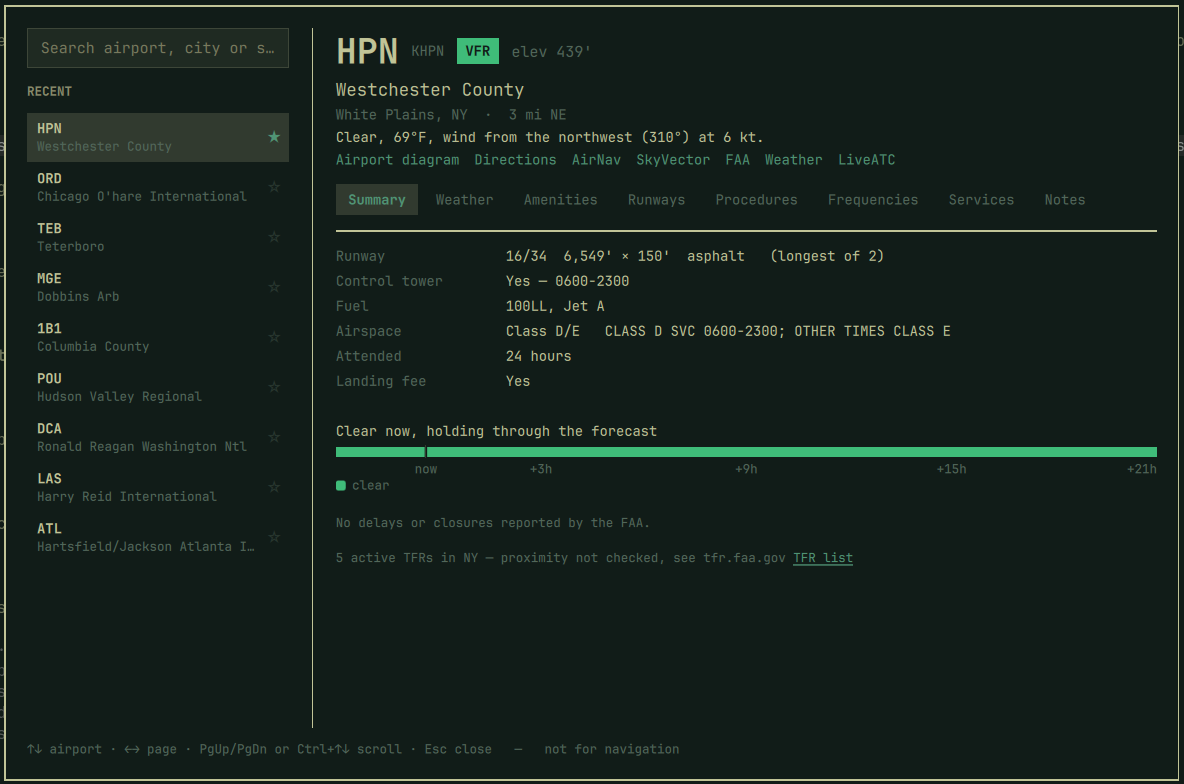
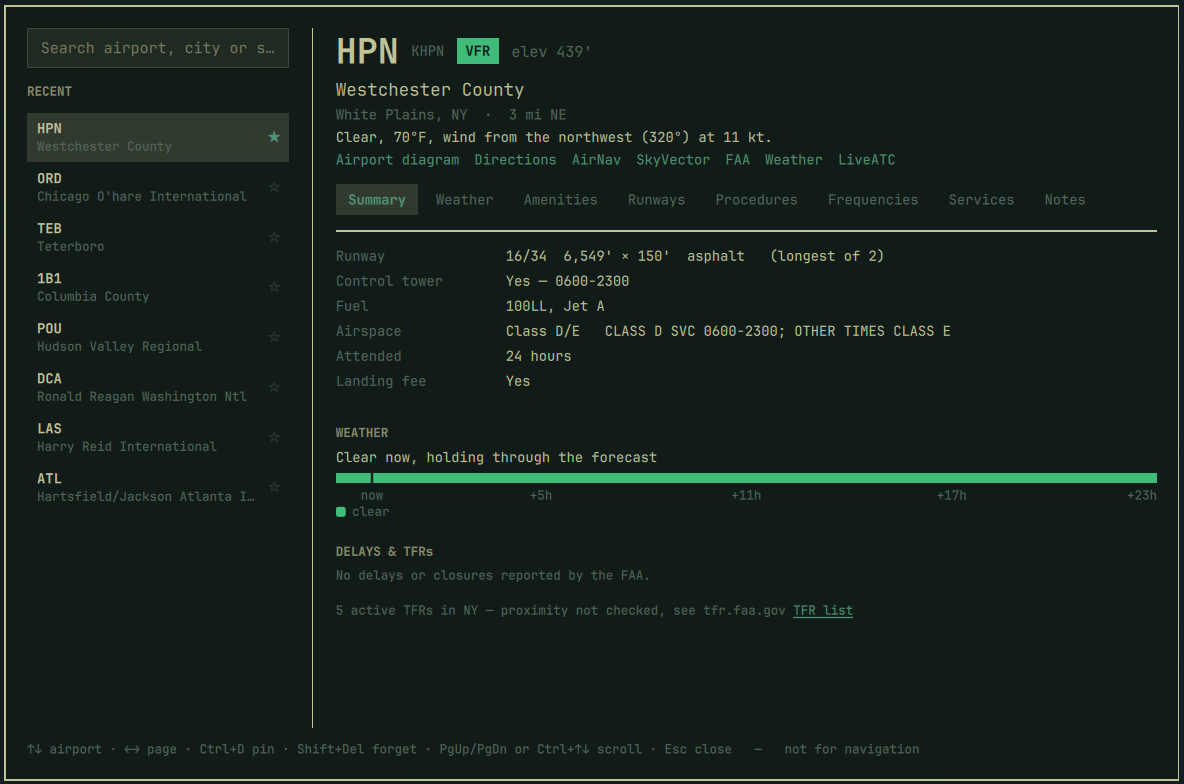
Give the Summary section headers
A coloured bar appeared under a table of runway and fuel facts with nothing
saying what the colours were about. The Summary was the one page carrying no
section headers at all, which was fine while it was a single table and stopped
being fine when the forecast band landed under it.

WEATHER over the forecast block. Not FORECAST: the block opens with "Clear
now", so it is conditions and outlook together, and matching the tab name
points at where the rest of it lives.

DELAYS & TFRs over the two lines below, because they are not weather and a
single header above would have annexed them.

Claude-Session: https://claude.ai/code/session_016PRcajPYBMmvqdanVCNj6V

diff --git a/Panel.qml b/Panel.qml
@@ -1175,6 +1175,16 @@ Item {
 
                   Item { width: 1; height: Style.space(4) }
 
+                  // The Summary is the one page with no section headers, which
+                  // was fine when it was a single table. It is not fine now
+                  // that a coloured bar sits under it with nothing saying what
+                  // the colours are about.
+                  PanelSectionHeader {
+                    visible: Model.outlookSegments(root.outlook).length > 0
+                    text: "WEATHER"
+                    foreground: Color.menu.text
+                  }
+
                   // ---- forecast at a glance ----
                   // The same band as the Weather page, captioned so it reads
                   // without a licence: what the sky is doing now, when that
@@ -1307,6 +1317,16 @@ Item {
                     width: 1
                     height: Style.space(6)
                     visible: Model.outlookSegments(root.outlook).length > 0
+                  }
+
+                  // Delays and TFRs are not weather. Without a header of their
+                  // own they read as the tail of the block above.
+                  PanelSectionHeader {
+                    visible: !!(root.status && root.status.available)
+                      || !!Model.tfrLine(root.tfr, root.header ? root.header.us : true)
+                      || !!(root.weather && root.weather.pending)
+                    text: "DELAYS & TFRs"
+                    foreground: Color.menu.text
                   }
 
                   // The delay and TFR lines below arrive with the live fetch.
